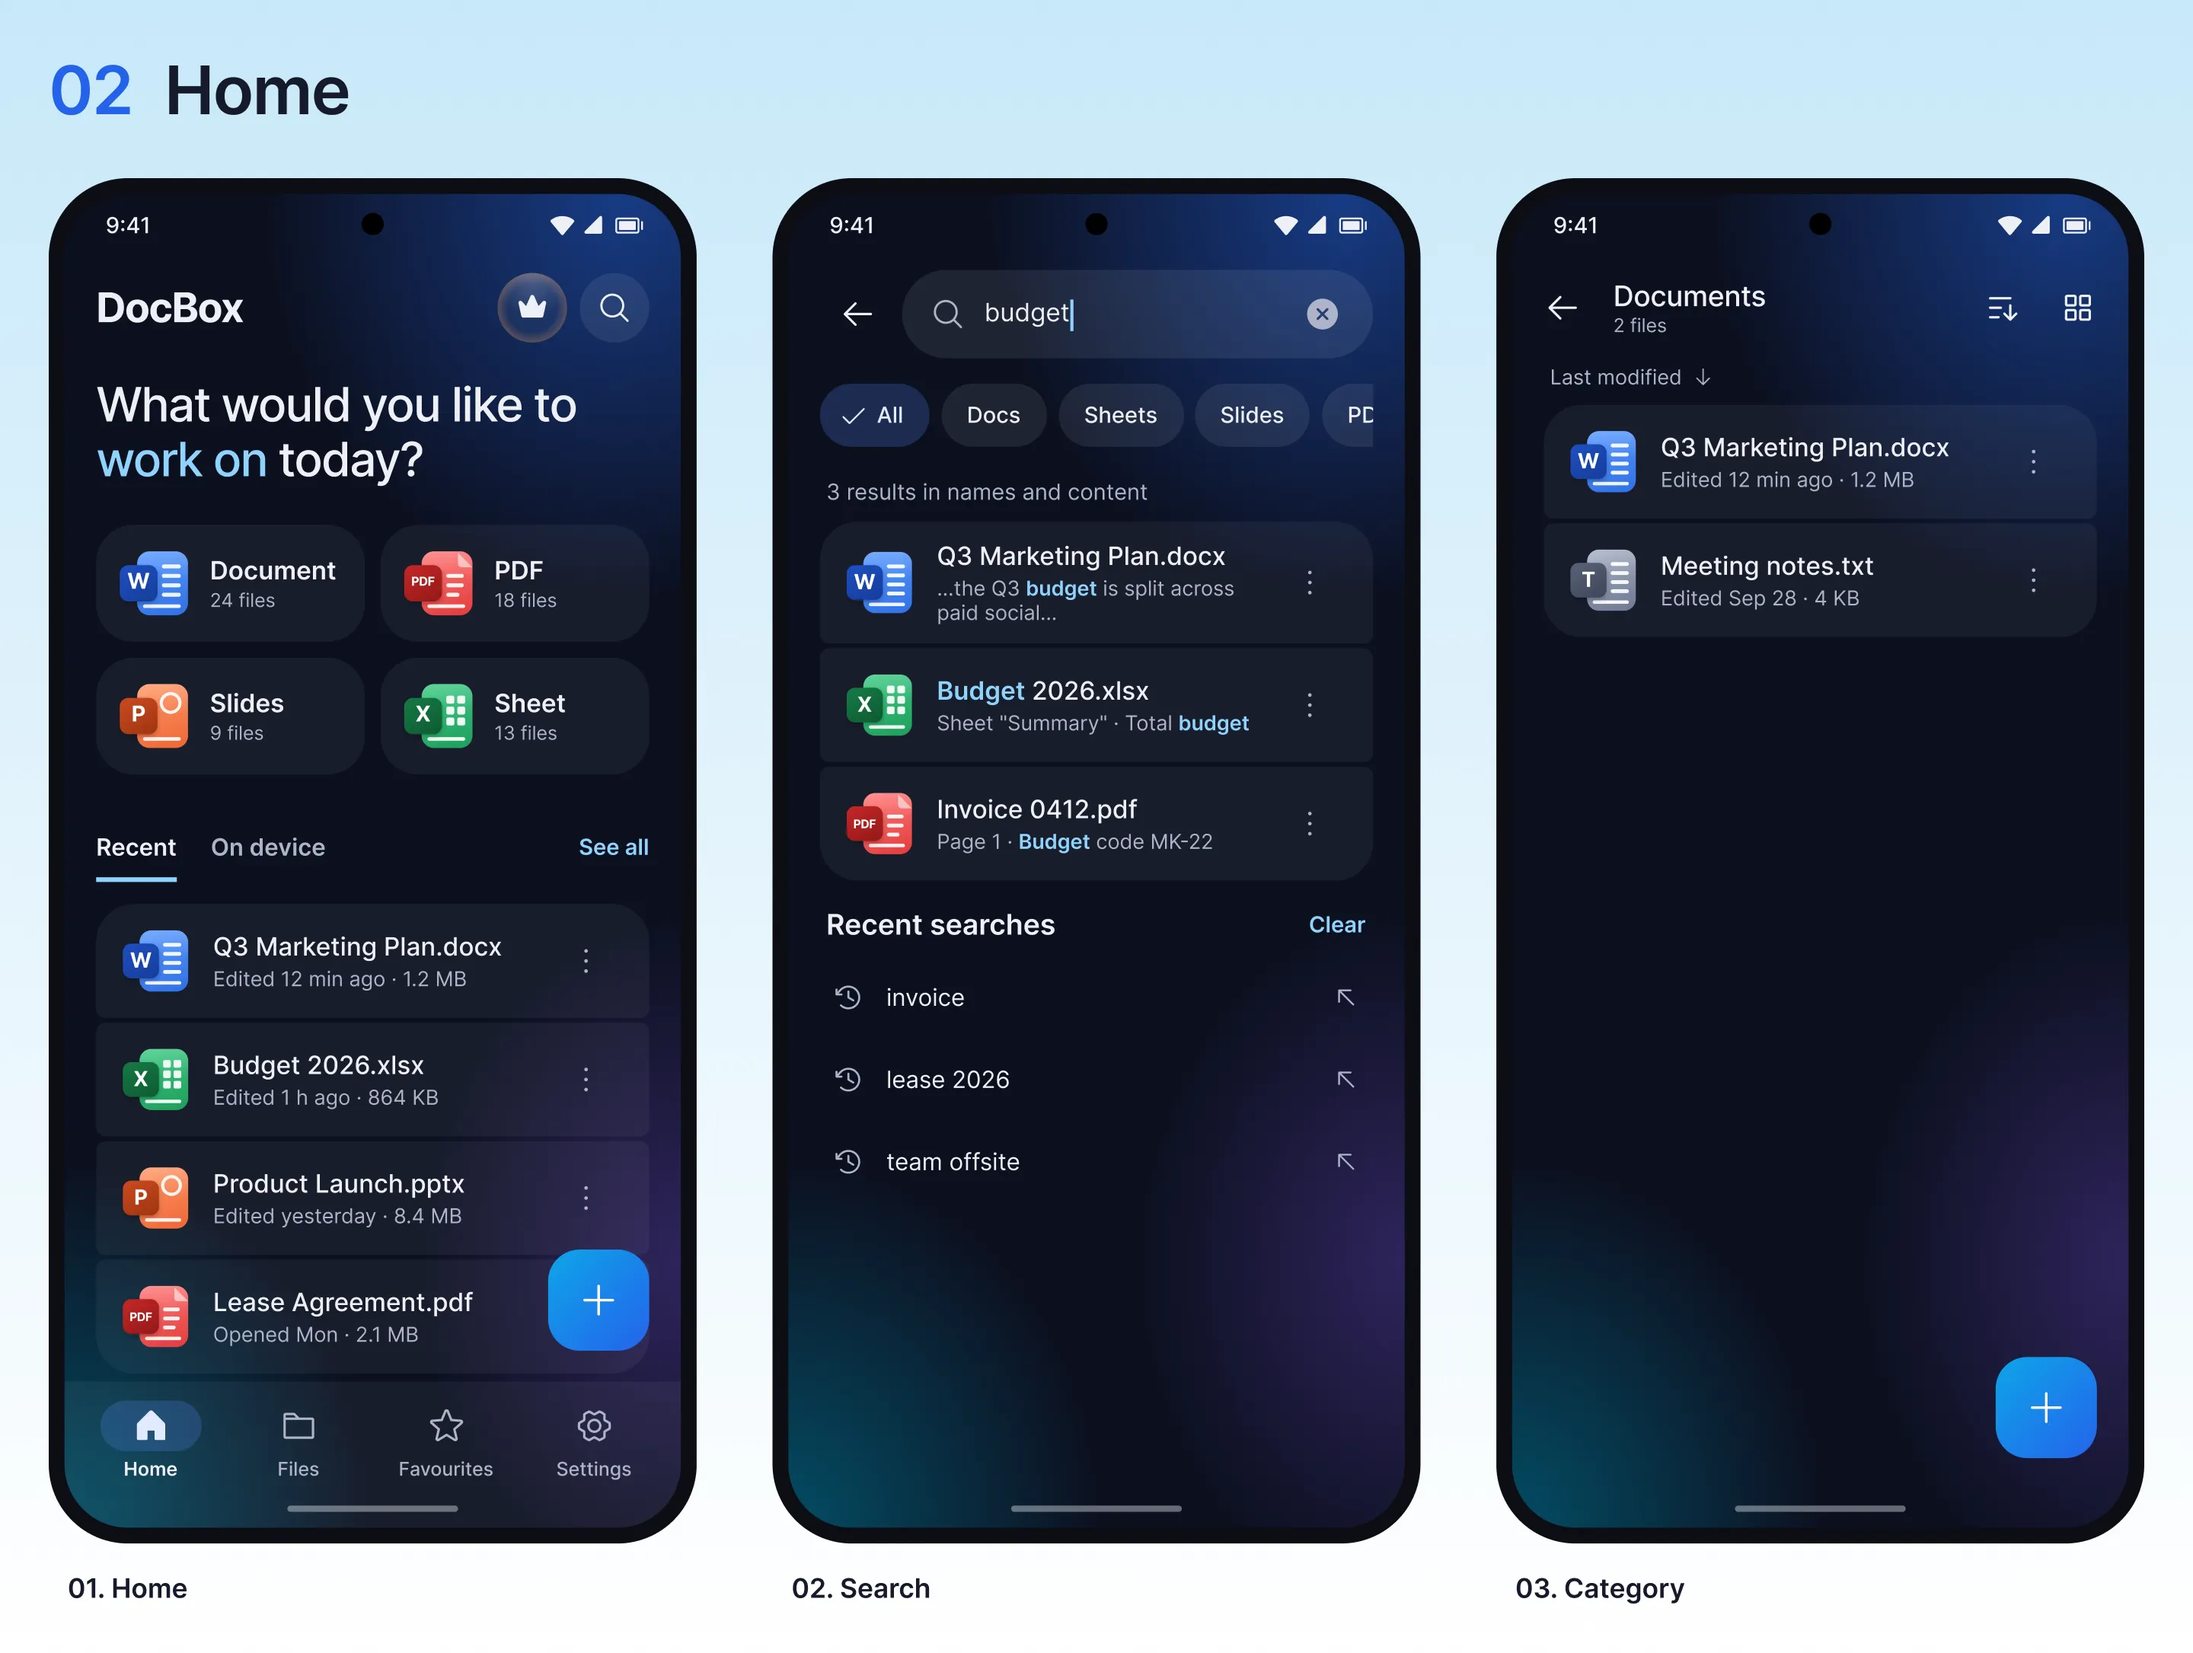
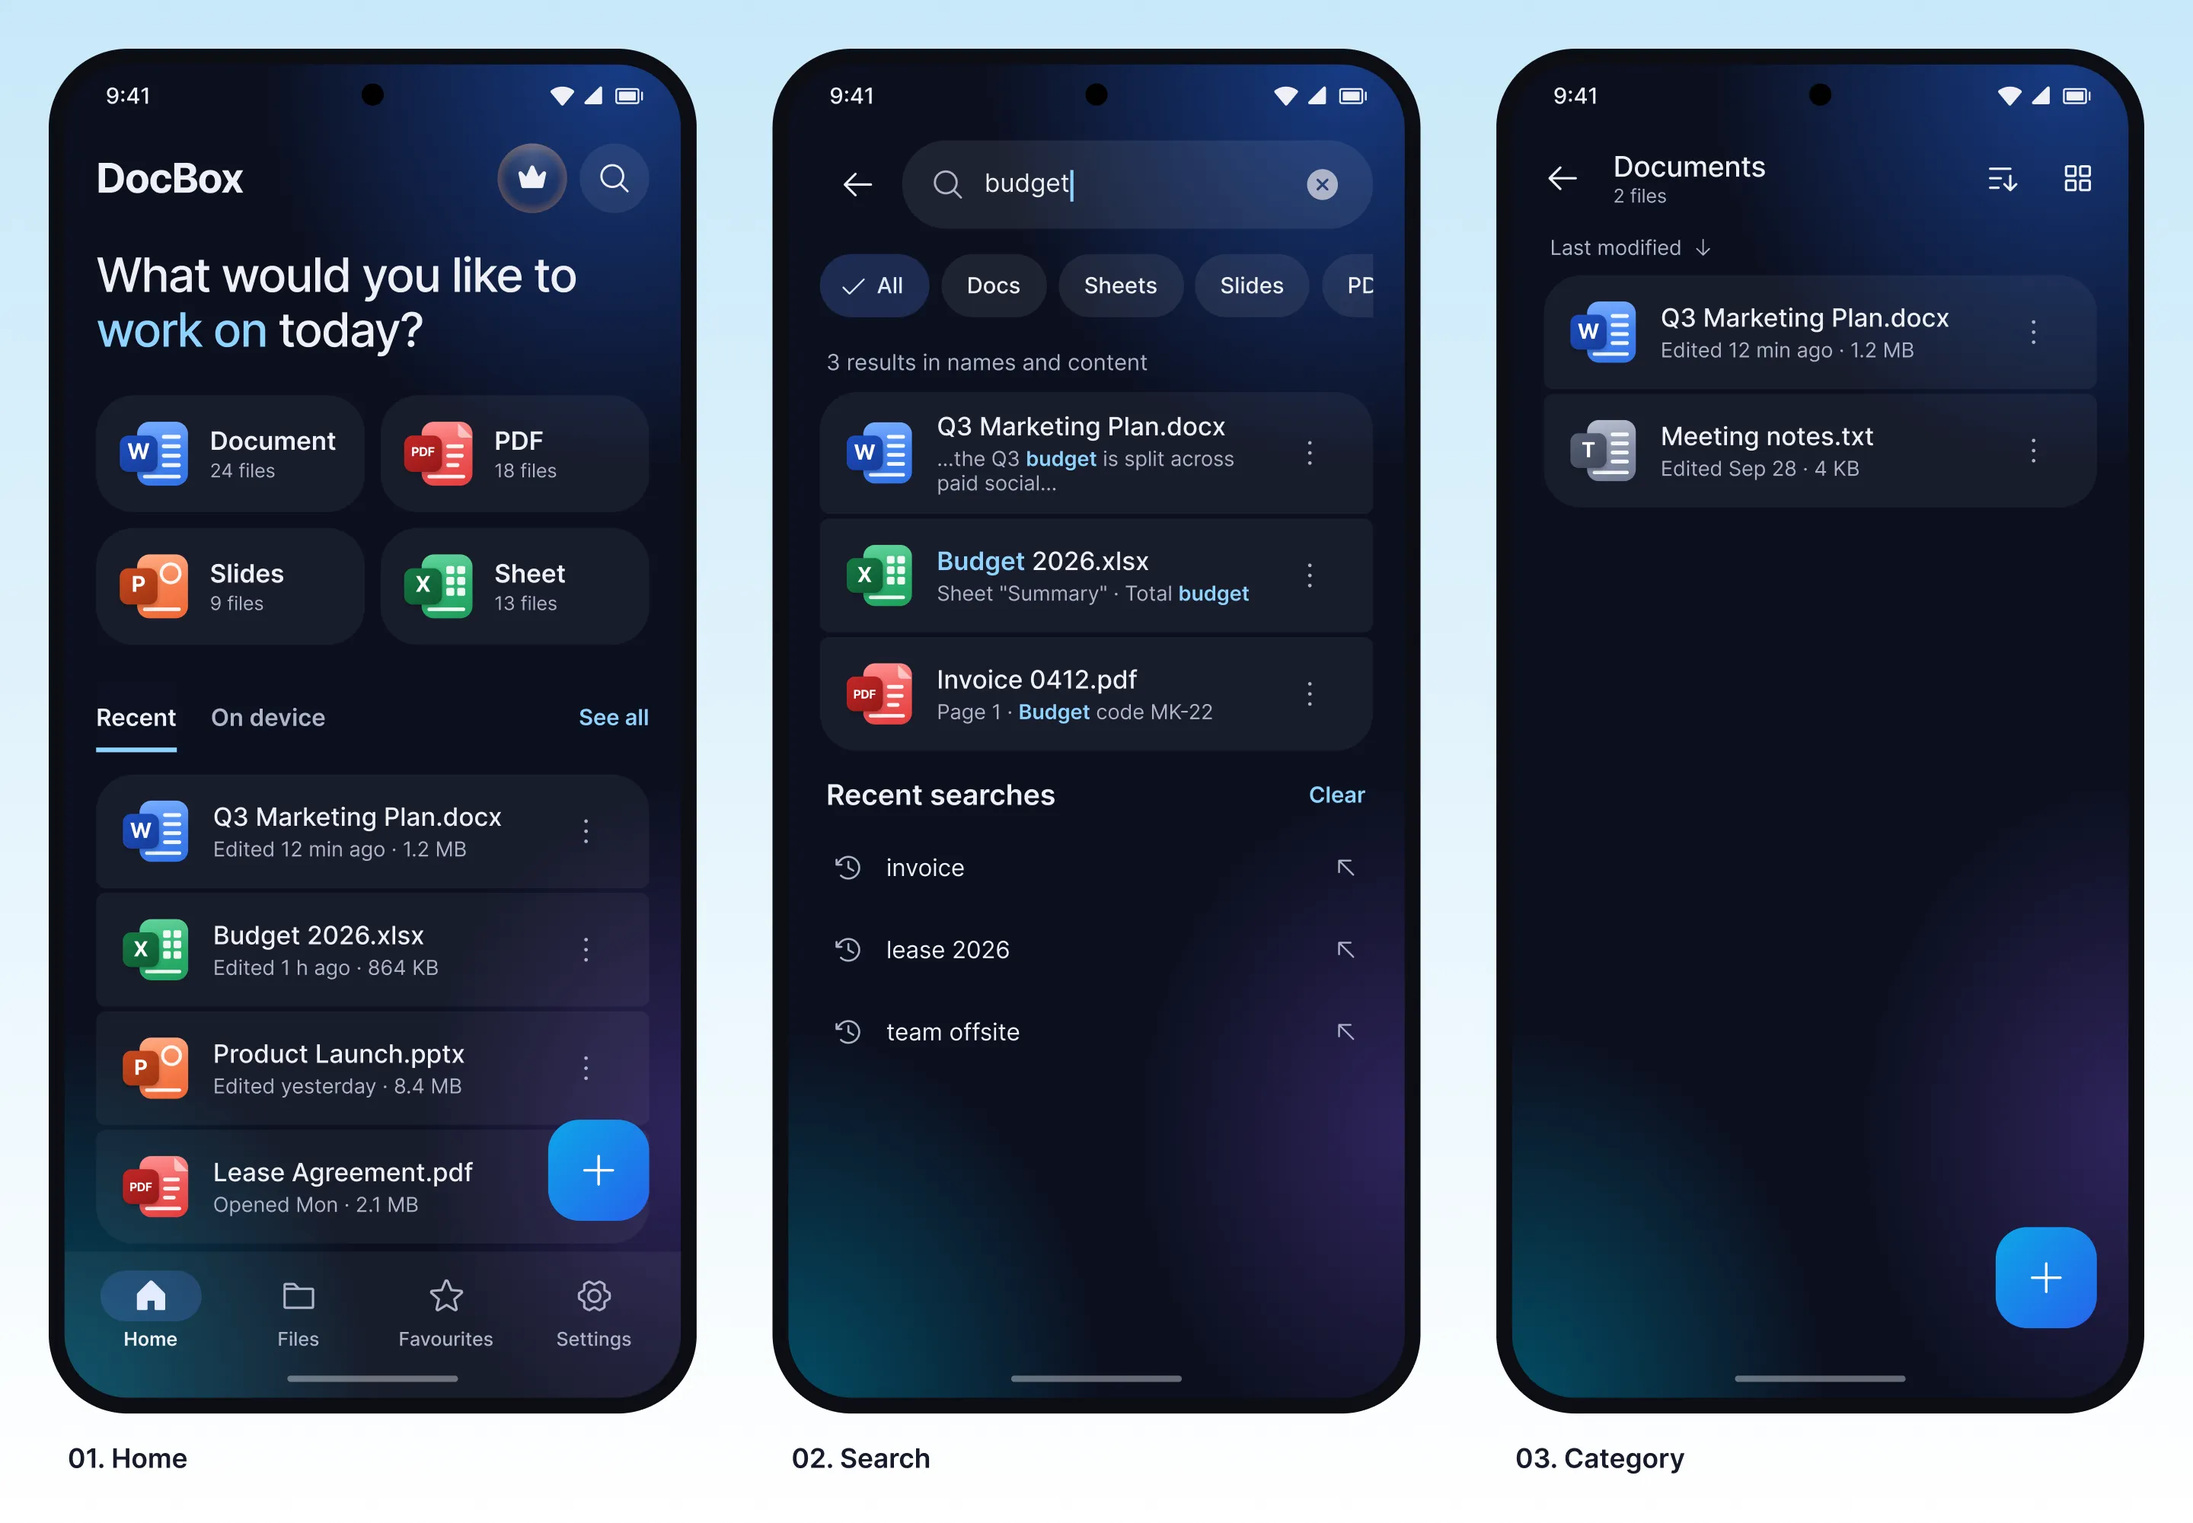
Add:imaghes

diff --git a/docbox.html b/docbox.html
@@ -611,10 +611,26 @@
                         </div>
 
                         <div class="flow-block">
-                            <strong>Files &amp; Folders</strong>
-                            <p>List and grid views, sorting, move, rename, details and delete — all handled through bottom sheets and dialogs.</p>
+                            <strong>Files</strong>
+                            <p>Browse documents in list or grid view, sort them, and open file details or actions.</p>
+                            <figure class="docbox-visual">
+                                <img src="media/docbox/files.webp" alt="DocBox file browser with document list and file actions" loading="lazy" width="2880" height="2001">
+                            </figure>
+                        </div>
+
+                        <div class="flow-block">
+                            <strong>Folders</strong>
+                            <p>Organise documents with folders, then move, rename or delete items through clear menus and dialogs.</p>
                             <figure class="docbox-visual">
                                 <img src="media/docbox/files and folders.webp" alt="DocBox file and folder views with file management actions" loading="lazy">
+                            </figure>
+                        </div>
+
+                        <div class="flow-block">
+                            <strong>Favourites</strong>
+                            <p>Keep important documents close at hand by marking them as favourites.</p>
+                            <figure class="docbox-visual">
+                                <img src="media/docbox/favourite.webp" alt="DocBox favourites screen with saved documents" loading="lazy" width="2880" height="2001">
                             </figure>
                         </div>
 
